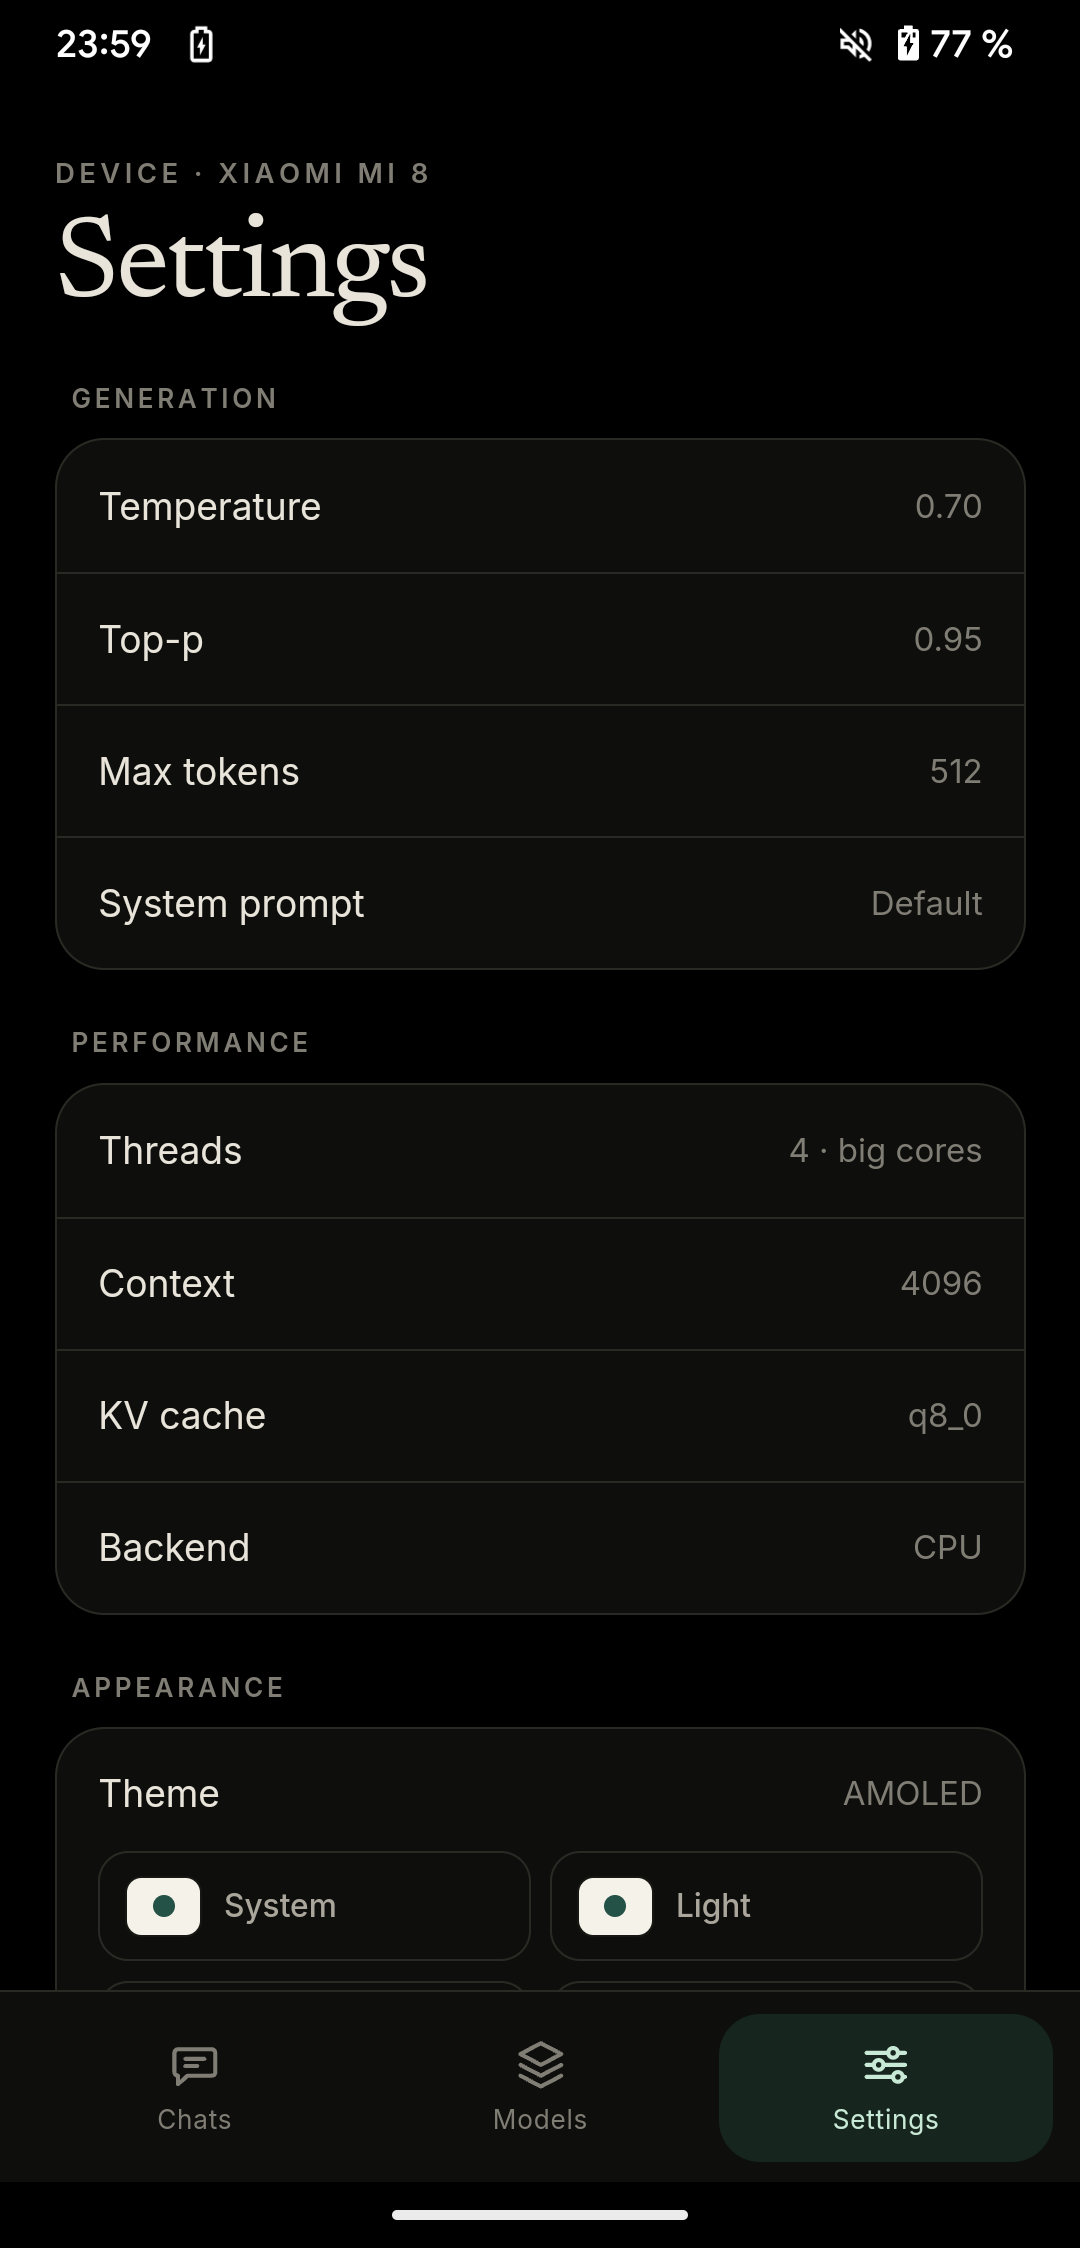
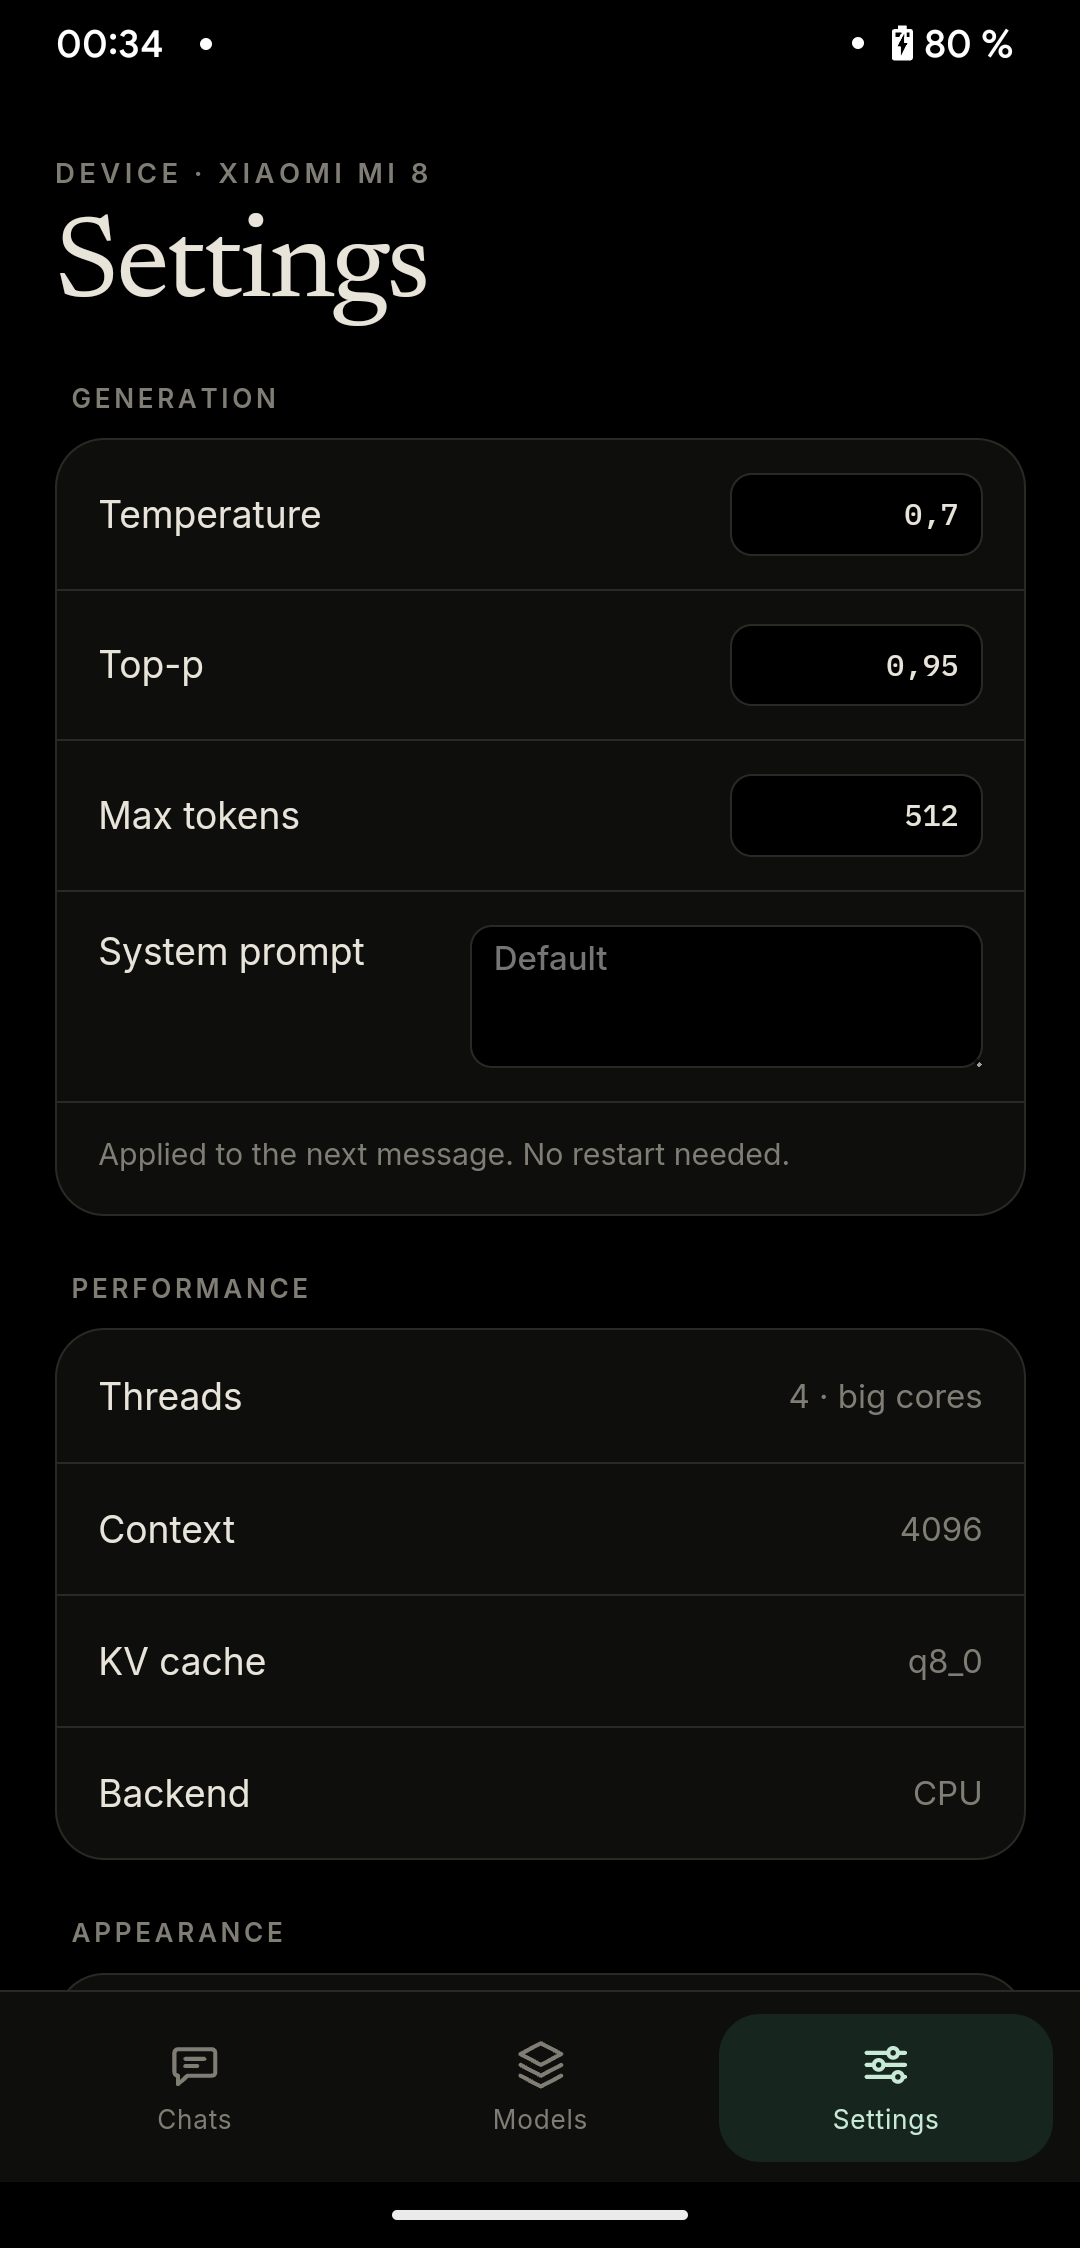
Settings: real temperature, top-p, max tokens and system prompt; final beta APK

diff --git a/web/src/app.tsx b/web/src/app.tsx
@@ -1052,9 +1052,13 @@ function ModelCard({
 function SettingsScreen({
   theme,
   onTheme,
+  settings,
+  onSettings,
 }: {
   theme: ThemePref;
   onTheme: (pref: ThemePref) => void;
+  settings: GenSettings;
+  onSettings: (next: GenSettings) => void;
 }) {
   const [reduced, setReduced] = useState(() => {
     try {
@@ -1086,10 +1090,70 @@ function SettingsScreen({
       </header>
 
       <Group title="Generation">
-        <Row label="Temperature" value="0.70" />
-        <Row label="Top-p" value="0.95" />
-        <Row label="Max tokens" value="512" />
-        <Row label="System prompt" value="Default" />
+        <label class="setting-row">
+          <span>Temperature</span>
+          <input
+            class="setting-input"
+            type="number"
+            min="0"
+            max="2"
+            step="0.05"
+            value={settings.temperature}
+            onInput={(event) =>
+              onSettings({
+                ...settings,
+                temperature: Math.min(2, Math.max(0, Number((event.target as HTMLInputElement).value))),
+              })
+            }
+          />
+        </label>
+        <label class="setting-row">
+          <span>Top-p</span>
+          <input
+            class="setting-input"
+            type="number"
+            min="0.05"
+            max="1"
+            step="0.05"
+            value={settings.topP}
+            onInput={(event) =>
+              onSettings({
+                ...settings,
+                topP: Math.min(1, Math.max(0.05, Number((event.target as HTMLInputElement).value))),
+              })
+            }
+          />
+        </label>
+        <label class="setting-row">
+          <span>Max tokens</span>
+          <input
+            class="setting-input"
+            type="number"
+            min="16"
+            max="8192"
+            step="16"
+            value={settings.maxTokens}
+            onInput={(event) =>
+              onSettings({
+                ...settings,
+                maxTokens: Math.min(8192, Math.max(16, Math.round(Number((event.target as HTMLInputElement).value)))),
+              })
+            }
+          />
+        </label>
+        <label class="setting-row setting-row-prompt">
+          <span>System prompt</span>
+          <textarea
+            class="setting-input setting-prompt"
+            rows={2}
+            value={settings.systemPrompt}
+            placeholder="Default"
+            onInput={(event) =>
+              onSettings({ ...settings, systemPrompt: (event.target as HTMLTextAreaElement).value })
+            }
+          />
+        </label>
+        <p class="group-note">Applied to the next message. No restart needed.</p>
       </Group>
 
       <Group title="Performance">
@@ -1192,6 +1256,33 @@ function Toggle({
   );
 }
 
+interface GenSettings {
+  temperature: number;
+  topP: number;
+  maxTokens: number;
+  systemPrompt: string;
+}
+
+const SETTINGS_KEY = "lumen.settings.v1";
+
+function loadSettings(): GenSettings {
+  try {
+    const raw = localStorage.getItem(SETTINGS_KEY);
+    if (raw) {
+      const parsed = JSON.parse(raw) as Partial<GenSettings>;
+      return {
+        temperature: Number(parsed.temperature ?? 0.7),
+        topP: Number(parsed.topP ?? 0.95),
+        maxTokens: Number(parsed.maxTokens ?? 512),
+        systemPrompt: String(parsed.systemPrompt ?? ""),
+      };
+    }
+  } catch {
+    // ignore
+  }
+  return { temperature: 0.7, topP: 0.95, maxTokens: 512, systemPrompt: "" };
+}
+
 const CHAT_STORE = "lumen.chats.v1";
 
 interface StoredChats {
@@ -1230,6 +1321,7 @@ export function App() {
   const initial = useMemo(loadChats, []);
   const [section, setSection] = useState<Section>("chats");
   const [theme, setTheme] = useState<ThemePref>(readThemePref);
+  const [settings, setSettings] = useState<GenSettings>(loadSettings);
   const [chatId, setChatId] = useState(initial.chatId);
   const [chatList, setChatList] = useState<Chat[]>(initial.chats);
   const [open, setOpen] = useState(false);
@@ -1262,6 +1354,14 @@ export function App() {
       // Private mode / full storage: keep the session in memory.
     }
   }, [chatList, conversations, chatId]);
+
+  useEffect(() => {
+    try {
+      localStorage.setItem(SETTINGS_KEY, JSON.stringify(settings));
+    } catch {
+      // ignore
+    }
+  }, [settings]);
 
   function updateMessages(updater: (prev: Message[]) => Message[]) {
     const id = activeChat.current;
@@ -1454,16 +1554,21 @@ export function App() {
 
       // The engine sees the whole conversation and applies the model's chat
       // template. `modelPath` is absolute and comes from the native registry.
+      const conversation: { role: "user" | "assistant" | "system"; content: string }[] = [
+        ...messages
+          .filter((m) => m.role === "user" || m.role === "assistant")
+          .map((m) => ({ role: m.role as "user" | "assistant", content: m.text }))
+          .filter((m) => m.content.trim().length > 0),
+        { role: "user", content: text },
+      ];
+      if (settings.systemPrompt.trim()) {
+        conversation.unshift({ role: "system", content: settings.systemPrompt.trim() });
+      }
       const request = {
-        messages: [
-          ...messages
-            .filter((m) => m.role === "user" || m.role === "assistant")
-            .map((m) => ({ role: m.role, content: m.text }))
-            .filter((m) => m.content.trim().length > 0),
-          { role: "user" as const, content: text },
-        ],
-        maxTokens: 512,
-        temperature: 0.7,
+        messages: conversation,
+        maxTokens: settings.maxTokens,
+        temperature: settings.temperature,
+        topP: settings.topP,
         seed: -1,
         modelId: selected?.id ?? activeModel,
         modelPath: selected?.path,
@@ -1667,7 +1772,7 @@ export function App() {
         )}
 
         {section === "settings" && (
-          <SettingsScreen theme={theme} onTheme={setTheme} />
+          <SettingsScreen theme={theme} onTheme={setTheme} settings={settings} onSettings={setSettings} />
         )}
       </main>
 

diff --git a/web/src/styles.css b/web/src/styles.css
@@ -1694,3 +1694,25 @@ button.setting-row:hover {
 .model-adapter span:first-child { color: var(--accent); }
 .model-adapter.is-warn { border-color: var(--warn); }
 .model-adapter.is-warn span:first-child { color: var(--warn); }
+
+.setting-input {
+  width: 92px;
+  min-height: 30px;
+  border: 1px solid var(--line);
+  border-radius: 8px;
+  padding: 3px 8px;
+  background: var(--paper);
+  color: var(--ink);
+  font: 500 11px/1 var(--mono);
+  text-align: right;
+}
+.setting-row-prompt { align-items: flex-start; }
+.setting-prompt {
+  width: min(58%, 340px);
+  min-height: 52px;
+  resize: vertical;
+  text-align: left;
+  font-family: var(--sans);
+  font-size: 12px;
+  line-height: 1.4;
+}

diff --git a/docs/releases/v0.2.0-beta.1.md b/docs/releases/v0.2.0-beta.1.md
@@ -4,7 +4,7 @@
 no cloud and no mock chat backend.
 
 - APK: `lumen.apk` (3.32 MB, arm64-v8a, Android 13+)
[2 lines of base64/hex data omitted]
 - Device used for the numbers below: Xiaomi MI 8 (`dipper`), Snapdragon 845,
   Adreno 630, 6 GB RAM, Android 15.
 
@@ -84,7 +84,7 @@ The app scans that directory on launch. No model is bundled in the APK.
 
 ```powershell
 Get-FileHash lumen.apk -Algorithm SHA256
-# 57A5936F46599DB31013C16B0962D28F78945E13BF2775390835C06F2775D244
+# 9481FDEBA170E39C358FDC9597E0F8D0742E9622E041A9E9B28D0588FBEDC096
 ```
 
 ## Research and audit
